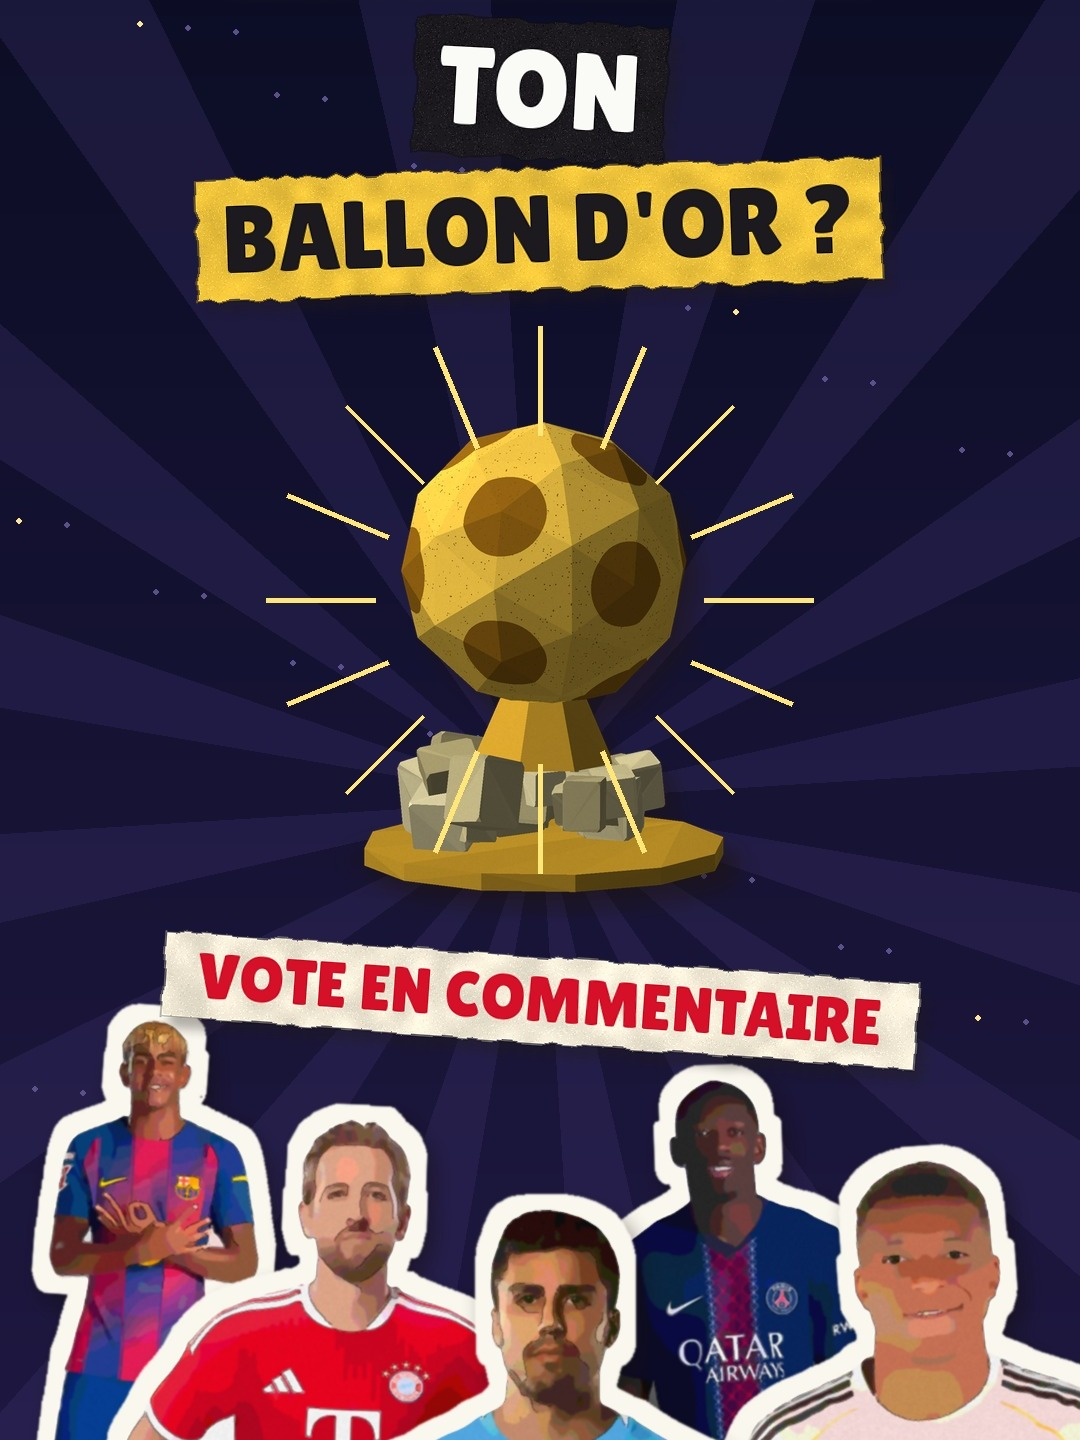
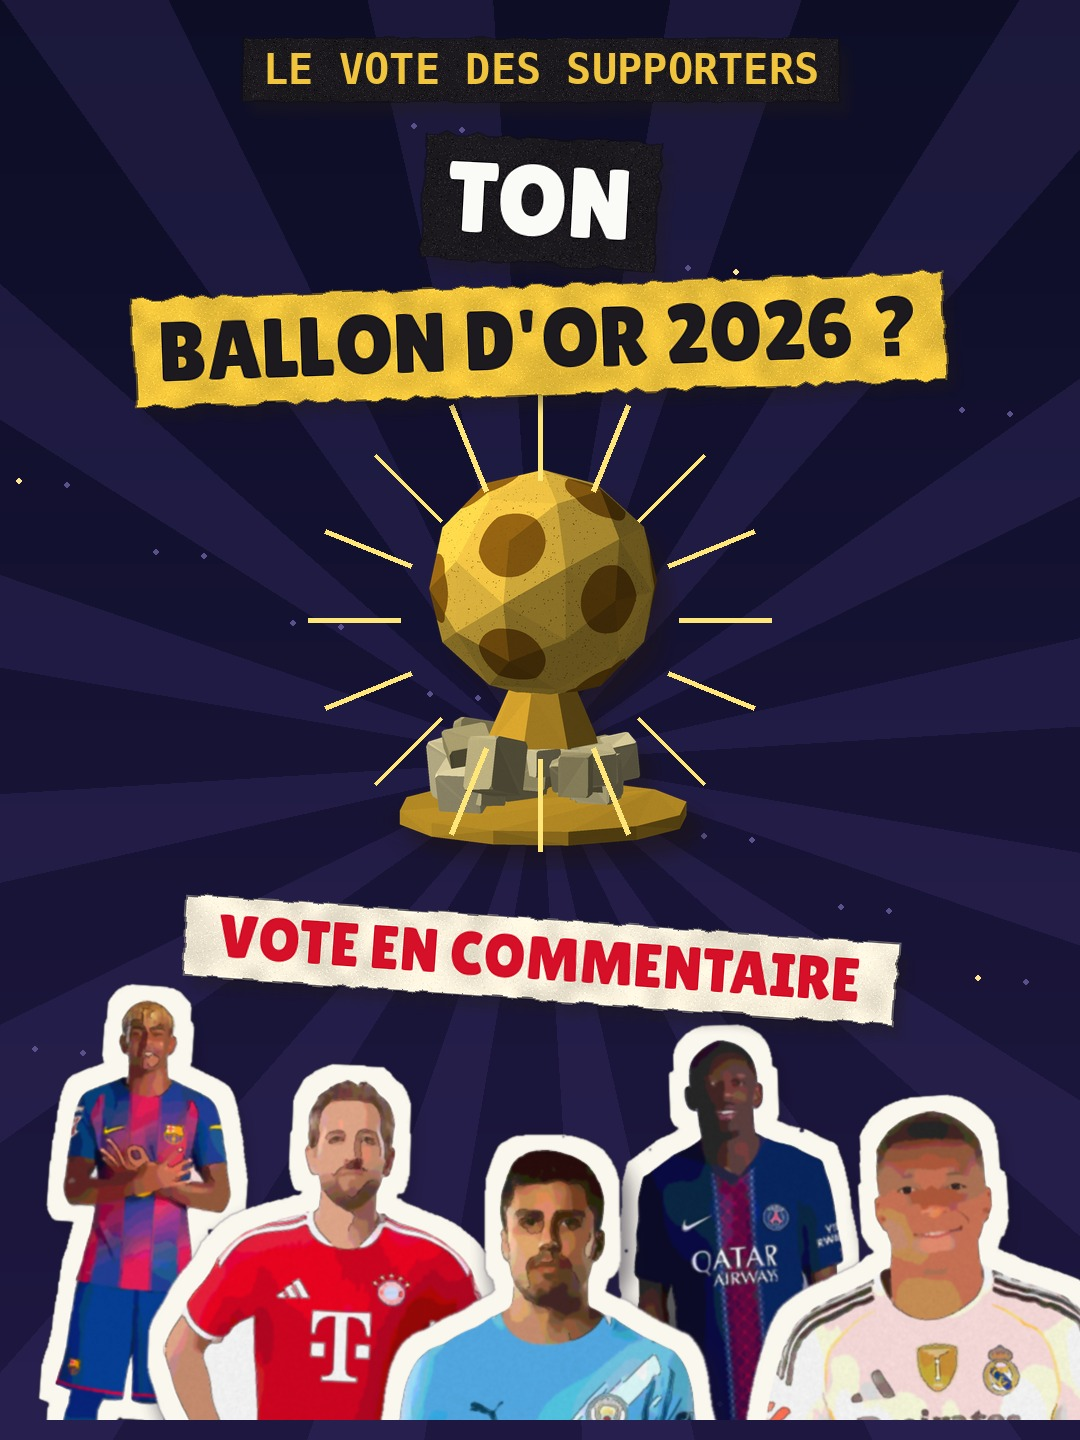
Ballon d'Or : couverture dans la zone sûre 3:4 (skill)
Claude-Session: https://claude.ai/code/session_01DXpnpJ9jwFkxmTPwukopFs

diff --git a/episodes/ballondor/cover.py b/episodes/ballondor/cover.py
@@ -5,14 +5,17 @@ HERE = os.path.dirname(os.path.abspath(__file__)); sys.path.insert(0, HERE)
 import ballondor as B
 from ballondor import *
 L = Image.new("RGBA", (W, H)); gala_bg(L, 1.0)
-for i, (n, x, s) in enumerate((("yamal", 120, 700), ("kane", 330, 600), ("dembele", 750, 640), ("mbappe", 960, 560))):
-    put(L, CUT(n, s), x, 1920, 1, (-4, -2, 2, 4)[i])
-put(L, CUT("rodri", 520), CX, 1930, 1, 0)
-put(L, gold_ball(150), CX, 860, 1, 0)
-sparks_burst(L, .2, 0, CX, 800, 16, (255, 230, 120), 330)
-LBL("LE VOTE DES SUPPORTERS", "cv1", font("mono", 46), GOLD, NOIR, padx=20, pady=8, rough=1.5).draw(L, 0, CX, 150, 1, 0)
-KW("TON", NOIR, BLANC, 110).draw(L, 0, CX, 290, 1, -3)
-KW("BALLON D'OR ?", GOLD, NOIR, 96).draw(L, 0, CX, 430, 1, 2)
-stampl("VOTE EN COMMENTAIRE", ROUGE, 64).draw(L, 0, CX, 1200, 1, -4)
+Y0 = 260                                                   # zone sûre TikTok : tout entre y 260 et 1660
+P = Image.new("RGBA", (W, H), (0, 0, 0, 0))
+for i, (n, x, s_) in enumerate((("yamal", 120, 560), ("kane", 330, 480), ("dembele", 750, 520), ("mbappe", 960, 450))):
+    put(P, CUT(n, s_), x, 1800, 1, (-4, -2, 2, 4)[i])
+put(P, CUT("rodri", 420), CX, 1810, 1, 0)
+P.paste((0, 0, 0, 0), (0, 1660, W, H)); L.alpha_composite(P)
+put(L, gold_ball(120), CX, 900, 1, 0)
+sparks_burst(L, .2, 0, CX, 860, 16, (255, 230, 120), 280)
+LBL("LE VOTE DES SUPPORTERS", "cv1", font("mono", 42), GOLD, NOIR, padx=20, pady=8, rough=1.5).draw(L, 0, CX, 310, 1, 0)
+KW("TON", NOIR, BLANC, 100).draw(L, 0, CX, 440, 1, -3)
+KW("BALLON D'OR 2026 ?", GOLD, NOIR, 84).draw(L, 0, CX, 580, 1, 2)
+stampl("VOTE EN COMMENTAIRE", ROUGE, 60).draw(L, 0, CX, 1200, 1, -4)
 out = os.path.join(ROOT, "output", "ballon_dor_supporters", "ballon_dor_supporters_couverture.jpg")
-L.convert("RGB").save(out, quality=92); print(out)
+L.convert("RGB").save(out, quality=92); L.convert("RGB").crop((0, 240, W, 1680)).save(out.replace(".jpg", "_3x4.jpg"), quality=92); print(out)
